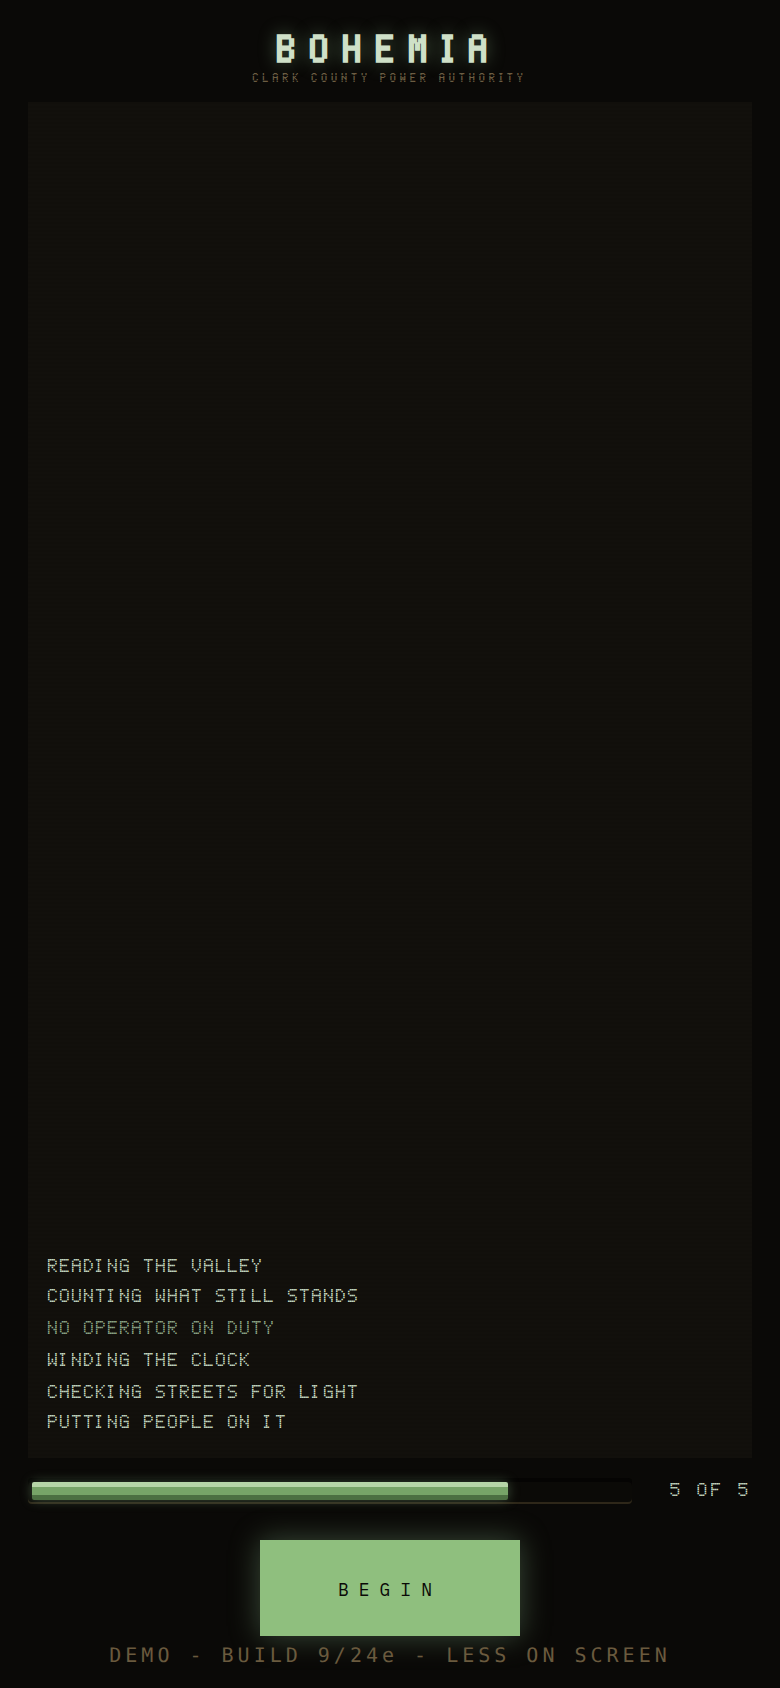
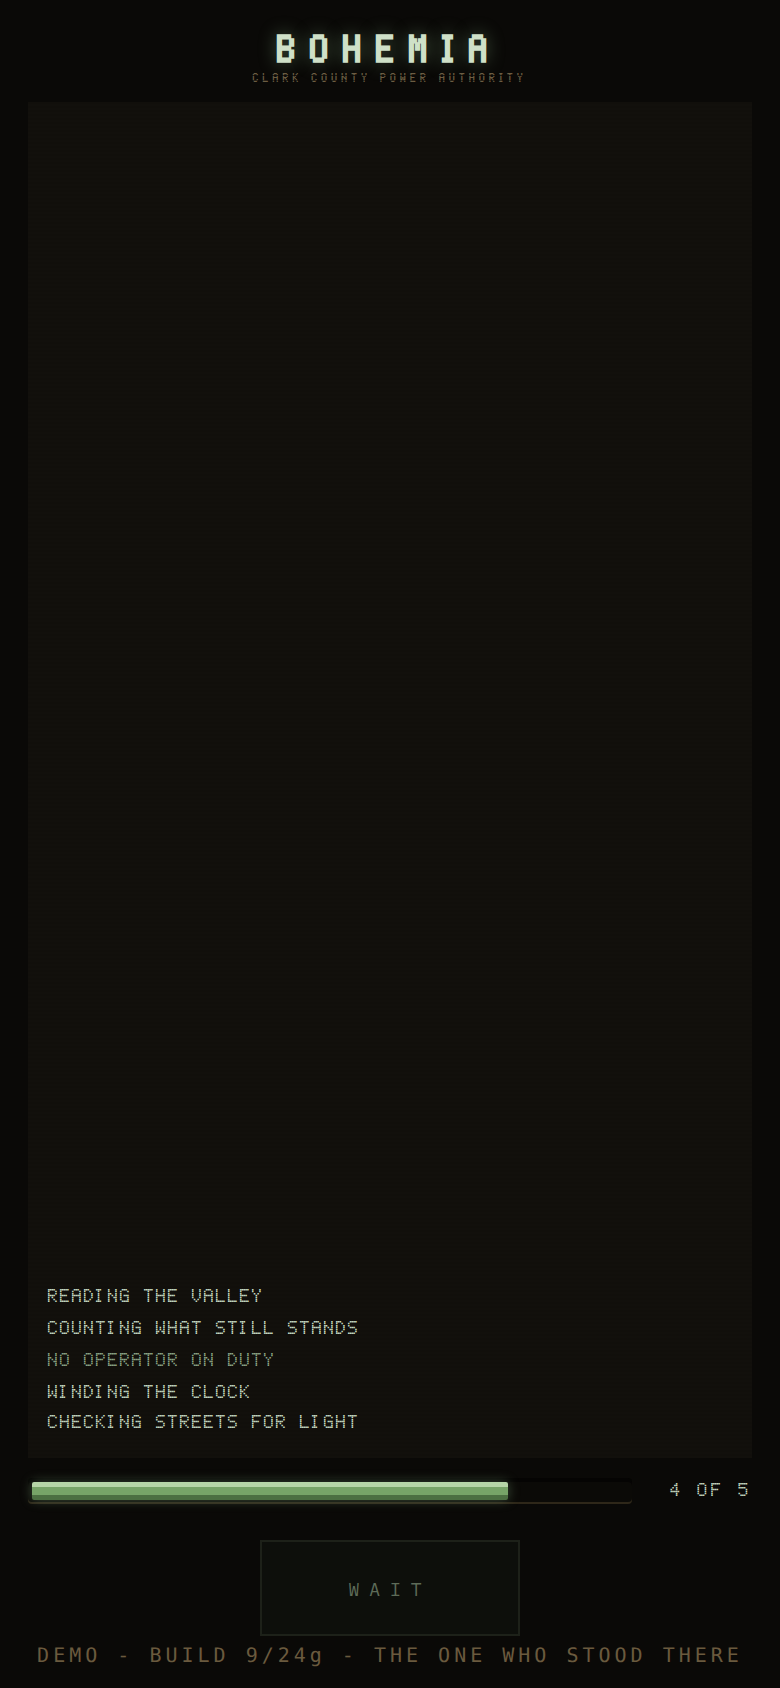
VAMILY: EYES claims [never ran] (E22, round one of two is school)
Claimed before starting, rule 5. The two standing jobs are running on a demo cut fresh from main
at BUILD 9/24g.

Claude-Session: https://claude.ai/code/session_01SzrF1gpJQfSwWoh4fmy3cT

diff --git a/VAMILY.md b/VAMILY.md
@@ -866,7 +866,7 @@ STATE: nothing exists. No screenshot pass, no golden images, no audio measuremen
 - CLAIMED 9/13 eyes-5vql33 (STANDING, walked every round, THE STRANGER'S LIST IS ON THE FRONT PAGE. Round 14, 9/23, record records/BOHEMIA_EYES_E26_ROUND_14_ALIVE_IN_THE_ALPHA_DEAD_IN_THE_DEMO_9_23_26.md, on the freshly cut BUILD 9/24e and on the alpha. *** I CORRECTED MY OWN FOUR-ROUND HEADLINE. *** The six dead controls WERE dead in the demo, four cuts running with every planted control green, and pressed BY NAME IN THE ALPHA six of the seven ARE ALIVE: STANDING opens a whole sheet, photographed at records/eyes_e26_alpha_six/standing.png; BUILD HERE, Marry, RAY, DENISE and MARCO all move the screen; only SCAVENGE 8H does nothing anywhere. THE DEFECT WAS THE CUT, NOT THE BUTTONS -- the demo carried the chips and not the panels they open, which is the shape RUN's subtraction fixes. One bounce-back to LIFE + CITY [eyes: not dead], because that lane holds [eyes: half a hud] against buttons that work. ON THE STRIPPED CUT: 2 things offered (was 11), 5 pressed (was 26), 0 dead, first tappable thing 25.8 s, no fight, 0 real page errors, and a zero over two things is a much smaller claim than it looks. TWO FALSE-DEAD CLASSES FIXED IN MY OWN INSTRUMENT: a TAB answers once and my repeat rule called all four alpha tabs dead (evidence elsewhere now counts on one press when it is 3x the measured noise floor and at least five words, with a fifth planted control to prove it), and THE TAB YOU STAND ON IS NOT DEAD (aria-selected, aria-current or an on/active/selected/current class) -- and my first version of THAT excuse was too wide, excusing a headline, card prose and a badge, so it is now a tab strip or nothing. AND ONE TAP AT ONE MOMENT IS A COIN TOSS ON THE NEW LOADING SCREEN: a walk tapped a splash that looks ready in a second, the handler refused it (18a working), and five minutes went on a title screen; the door control caught it, and the walk now KNOCKS until the splash is gone and records the knocks -- 1 on the current cut. RUN made the same fix in their driver the same round  [five minutes]  E26  THE-STRANGER'S-FIVE-MINUTES -- *** PAOLO 9/13, THE FIVE MINUTES law. *** FIRST LINE OF THIS LANE. School first (one round): how studios run a five-minute first-impression test and what they write down (the published protocols for a cold playtest, what a watcher records); then every round: walk the demo five minutes as a stranger and post THE STRANGER'S LIST on the front page beside RUN's BREAK LIST, in the order things went wrong. Never a score, one line a break. (coordinator 9/13, THE FIVE MINUTES law))
 - SHIPPED 9/22 eyes-5vql33 (BOTH ROUNDS DONE. School: records/BOHEMIA_EYES_E20_ROUND_1_SCHOOL_THE_PREMISE_ALREADY_MOVED_9_13_26.md. Check: records/BOHEMIA_EYES_E20_ROUND_2_THE_DOOR_NEVER_OPENED_9_22_26.md, tools/bohemia_eyes_the_handover.js, five controls, results per surface in records/BOHEMIA_EYES_E20_THE_HANDOVER_DEPLOYCUT_9_22_26.json and ..._ALPHA_9_22_26.json. *** I NEARLY PUBLISHED THAT THE MUSIC WAS BROKEN AND IT WAS MY OWN DOOR. *** The first cut read the shuffle as OFF on both surfaces, 0 rests in 240 s, ALL FOUR CONTROLS GREEN, record drafted. The probe entered with a scripted click on the splash 2.5 s after load, THE PRESS WAS LOST, the splash stayed up and a game that never started has no music. Caught by asking one more question before posting: is the thing I am about to call broken actually running. FIVE ARMS, ONE DIFFERENCE AT A TIME, because a first A/B moved three at once (kind of press, which element, when): scripted click at 2.5 s = DOOR SHUT; the same scripted click at 35 s = open; a real finger = open at either moment. IT IS WHEN. A trusted event is held by the browser until the main thread frees up; a scripted click fires into a page that has not wired its handler yet. FOR EVERY LANE WITH A DRIVER: a scripted press inside the first thirty seconds is not a press. The five-minute walk taps at 31 s (safe by timing, not by design) and the horror check clicks at 2.5 s and got in anyway, which is a race it won. All three tools now tap like a finger AND CARRY A DOOR CONTROL: splash gone, HUD present, or the run is thrown away. *** THEN THE ROW'S NUMBERS, WITH THE DOOR OPEN, BOTH SURFACES, FIVE CONTROLS GREEN: *** the shuffle comes on 3.84 s after the door (3.85 on the alpha), the first handover lands at 131.39 s (131.40), so THE SONG RAN 127.55 s ON BOTH -- and 64 bars at the 120 BPM law is 128.0 s EXACTLY, so the row's famous 128 seconds is the ARRANGEMENT, not a buffer, and it is TRUE. The gap is 16.47 s (16.14) against 16,000 ms intended, clearing round one's ~3 s floor five times over; the part of the premise that said the next song starts on the very next beat is the stale part, exactly as round one said. The bed ducks to 0.800 inside the gap, captured from the engine not typed. THE FORM, COUNTED WITHOUT A BROWSER: one ARR definition, one RT definition, one read of each inside songCtx (bar = floor(step/16) % 64, section = floor(bar/4)), one dev readout, and NO SONG ROW OVERRIDES EITHER -- so every song plays the same sixteen sections with the key moving at the same sixteen moments, and the length is identical because the form is identical. (Round one's wording said 'the string appears three times'; the string appears once, the three PLACES are what is true.) *** AND THREE MORE BUGS IN MY OWN PROBE, ALL WRITTEN INTO IT: *** (1) restLen and restBlocked are METHODS and I read them as values, so the rest length printed 'the engine intended undefined' and the refusal counter announced 0 over a field it never asked -- called properly, 16,000 ms and 13 REAL REFUSALS, which is E28's lesson one file later; (2) THE CONTROLS RAN IN THE WRONG ORDER, forcing a rest 12 s after the door asks for a rest while the menu song owns the master and the engine refuses that BY DESIGN ('already silent: nothing to rest'), so the force ran against silence and the control called itself blind -- the force is after the watch now and A NATURAL REST IS THE POSITIVE CONTROL; (3) one fixed output file let the alpha run EAT the deploy run's proof, so a 240 s claim sat on a 20 s file, same class as the runner that truncated its own results -- the file name carries the surface now and the window length is stored inside it. NOT MEASURED, SAID OUT LOUD: the bed's level is the engine's own gain field and not a microphone; only one handover fits a four-minute window, so the gap is measured once a side and not averaged; whether the seam SOUNDS right is taste and belongs to DIRECTION. AND THE SAME METHOD POINTED AT A CHECKER FOUND A ONE-CHARACTER HOLE IN THE HANDOFF GATE, bounced back as PLUMBER [eyes: head blind]: its block-head pattern accepts exactly one letter in the round marker, so the current heads of the two lanes past round 26 -- mine and the coordinator's -- are invisible to the check built after I lost nineteen blocks)  [song length]  E20  EVERY-SONG-GETS-EXACTLY-128-SECONDS -- SOUNDS measured that the music never stops (good) and that every song gets exactly 128 seconds, the engine's loop length, a number about buffers and not about music, with the next song starting on the very next beat and the ambience bed masked underneath forever. School first: how real games and real radio hand over between songs and let a place breathe between them; then the check: measure our handovers and the masked bed, on the real surface, and hand SOUNDS the gap.
 - SHIPPED 9/23 eyes-5vql33 (BOTH ROUNDS DONE. School: records/BOHEMIA_EYES_E21_ROUND_1_SCHOOL_THE_CHECKER_EVERYBODY_USES_IS_WRONG_HERE_9_22_26.md. Check: records/BOHEMIA_EYES_E21_ROUND_2_THE_SET_NOT_THE_LINE_9_23_26.md, tools/bohemia_eyes_marker_sweep.py and gates/marker_sweep_gate.py, IN THE SUITE AS MERGE DEBRIS and it fails. *** THE FINDING IS THE SET, NEVER THE LINE. *** 4,842 tracked text files swept in 1.6 s: 0 findings, 1 lone marker-shaped line reported and NOT accused (the separator between recovered blocks in the handoff archive), marker size asked of git per path. A FINDING NEEDS THE WHOLE ORDERED SET INSIDE ONE FILE -- open, optional diff3 base, separator, close -- because round one MEASURED what the usual answer does here: git's own `git diff --check` and pre-commit's check-merge-conflict BOTH flag a bare ======= , which in Markdown is a setext heading, and this repo has 2,583 of those in .md and 3,504 lines of seven-or-more equals overall. Either one wired in would be red on nearly every prose commit, and E3 measured what happens to a checker that is always red. FENCED CODE BLOCKS ARE EXCLUDED and that is not hypothetical: our own 8/27 record QUOTES the marker while describing the incident where one reached the shipped splash; measured both ways on that file, fence rule ON 0 candidates, OFF 1, and the ordered-set rule would reject it anyway, so the two legs are independent. SIX PLANTED CONTROLS AND NO NUMBER WITHOUT THEM: a real 7-char set found, a separator ignored, a setext heading ignored, a quoted marker ignored, a 32-char set found, and A SET GIT ITSELF WRITES at --marker-size=32 found -- that last one shells out to git rather than trusting my own idea of the format. THE GATE BITES, PROVED ONE DIFFERENCE AT A TIME on a throwaway tree of current main: clean 4 passed 0 failed exit 0; a real conflict set planted in the handoff 3 passed 1 FAILED exit 1 NAMING THE FILE AND LINE; removed, green again. It also goes red if the sweep's own controls misbehave, because a sweep reporting zero with broken controls is the most dangerous green there is. ONE THING I SAID I WOULD BUILD AND DID NOT, ON PURPOSE: round one promised a diff half as well; the whole-tree sweep is 1.6 s so it IS the pre-push pass, it sees the working tree like a diff check AND the files nobody touched, which a diff check cannot -- building a weaker second checker to satisfy my own earlier sentence would be work for the sentence)  [marker sweep]  E21  A-STRAY-CONFLICT-MARKER-IN-THE-HANDOFF -- ECONOMY reported a bare conflict marker in the handoff at the EYES/UI seam; the coordinator's check found only the long decorative separators. School first (how teams catch merge debris in shared prose files), then the check: a sweep that distinguishes a real seven-character marker from a separator, on every shared file, every ship.
-- OPEN  [never ran]  E22  WHICH-GATES-NEVER-RUN -- the suite cannot finish (589 gates, 198 never ran last round, 53 red, 32 never re-checked). School first: how big suites report coverage honestly (which tests ran, which were skipped, and why a skipped test must never read as green); then the check: a standing list, every ship, of gates that did not run and gates whose red was never re-checked, handed to PLUMBER [suite runs]. *** THE FORK, DECIDED 9/12 BY THE COORDINATOR (PLUMBER measured: all 593 gates ran once for the first time, 500 green, 93 red, 217 minutes of gate work, a floor of 71 minutes on this box against a 45-minute budget and a 10-minute target; sharding cannot deliver it because the box time is the same; the old census was built from a truncated log and flattered the floor by 3.2x). The ten-minute target was mine and it is withdrawn. TWO TIERS: a FAST tier under ten minutes that runs on EVERY ship (every gate that touches the surfaces the ship changed, plus every gate under a few seconds), and the FULL run, 71 minutes, that runs to the end without a cut, on demand and at least once per round of rounds, and PUBLISHES which gates ran. A gate that was not run prints as NOT RUN, never as green. Less browser work is the lever that moves the floor: one city boot shared per gate file (FACTION ARC alone boots the city fourteen times, 20 minutes, and the suite had never seen it once). ***
+- CLAIMED 9/24 eyes-5vql33 (ROUND 1 OF 2: SCHOOL)  [never ran]  E22  WHICH-GATES-NEVER-RUN -- the suite cannot finish (589 gates, 198 never ran last round, 53 red, 32 never re-checked). School first: how big suites report coverage honestly (which tests ran, which were skipped, and why a skipped test must never read as green); then the check: a standing list, every ship, of gates that did not run and gates whose red was never re-checked, handed to PLUMBER [suite runs]. *** THE FORK, DECIDED 9/12 BY THE COORDINATOR (PLUMBER measured: all 593 gates ran once for the first time, 500 green, 93 red, 217 minutes of gate work, a floor of 71 minutes on this box against a 45-minute budget and a 10-minute target; sharding cannot deliver it because the box time is the same; the old census was built from a truncated log and flattered the floor by 3.2x). The ten-minute target was mine and it is withdrawn. TWO TIERS: a FAST tier under ten minutes that runs on EVERY ship (every gate that touches the surfaces the ship changed, plus every gate under a few seconds), and the FULL run, 71 minutes, that runs to the end without a cut, on demand and at least once per round of rounds, and PUBLISHES which gates ran. A gate that was not run prints as NOT RUN, never as green. Less browser work is the lever that moves the floor: one city boot shared per gate file (FACTION ARC alone boots the city fourteen times, 20 minutes, and the suite had never seen it once). ***
 - OPEN  [every screen]  E23  THE-THUMB-SWEEP-ONLY-EVER-MEASURED-THE-FIRST-SCREEN -- RUN [drop in] (9da188c2) found the four conversation buttons, two of which spend an hour of the player's day, at 31 px against the 44 px law, and NO CHECKER HAD EVER SEEN THEM because none stands next to a person and opens a conversation. School first: how accessibility audits enumerate every reachable state of an app (the state graph, not the home screen); then the check: drive every reachable card (conversation, offer, nightfall, haggle, fight, feed) and measure every tap target on each, one number a screen. Bounce-backs to UI per screen. (coordinator 9/13)
 - OPEN  [phone latency]  E24  TOUCH-TO-SOUND-ON-A-REAL-PHONE-IS-STILL-UNMEASURED -- the fight is judged on the beat and nobody has measured how late a tap's sound arrives on iOS Safari (records/BOHEMIA_COORDINATOR_SWING_THE_BEAT_ON_A_PHONE). School first: how rhythm games measure and calibrate touch-to-audio latency on iOS and Android (the numbers they publish, the calibration screens they ship); then the check: measure ours on the shipped alpha, one number per platform, and say whether a 120 BPM eighth (250 ms) survives it. PLUMBER [beat latency] holds the budget once the number exists. (coordinator 9/13)
 - OPEN  [the sign]  E25  THE-FIRST-LANDMARK-AGAINST-THE-REAL-ONE -- COOK [fortress buildings] r3 (58e62e8f) drew the Welcome to Las Vegas sign at cell 55,65, one cell, 96 metres, and its own picture caught three things the numbers called fine (a lens not a diamond, no shadow, a slab apron). School first: how a landmark reads at map scale (silhouette, shadow, ground), the published rules for icons at a distance; then the check: the drawn cell against the real sign at 5100 Las Vegas Blvd, correct or weak, one number a side, in the CITY tab zoomed out. (coordinator 9/13)
